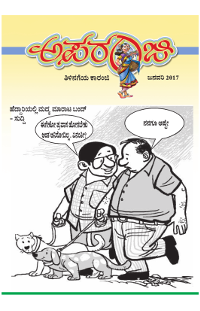
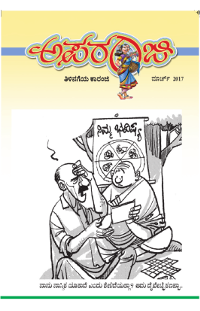
Commit No. 53 - March Issue Updated

diff --git a/index.php b/index.php
@@ -85,7 +85,7 @@ session_start();
 			echo "		  </div>
 				</div>";
 				
-			echo "<div class=\"cover\"><a href=\"Volumes/".$currentyear."_".$currentmonth.".pdf#page=1\" target=\"_blank\"><img src=\"php/images/cover1.png\" alt=\"".$month[$currentmonth-1]."\" title=\"".$month[$currentmonth-1]." ಸಂಚಿಕೆ\"/></a></div>";
+			echo "<div class=\"cover\"><a href=\"Volumes/".$currentyear."_".$currentmonth.".pdf#page=1\" target=\"_blank\"><img src=\"php/images/cover.png\" alt=\"".$month[$currentmonth-1]."\" title=\"".$month[$currentmonth-1]." ಸಂಚಿಕೆ\"/></a></div>";
 		?>
 			
 		

diff --git a/php/connect_db.php b/php/connect_db.php
@@ -4,7 +4,7 @@
 	$pwd="mysql";
 	$db="apr";
 	$volume='34';
-	$issue='5';
+	$issue='6';
 	
 	$db_con=mysql_connect("$host","$usr","$pwd");
 	mysql_select_db("$db",$db_con);
